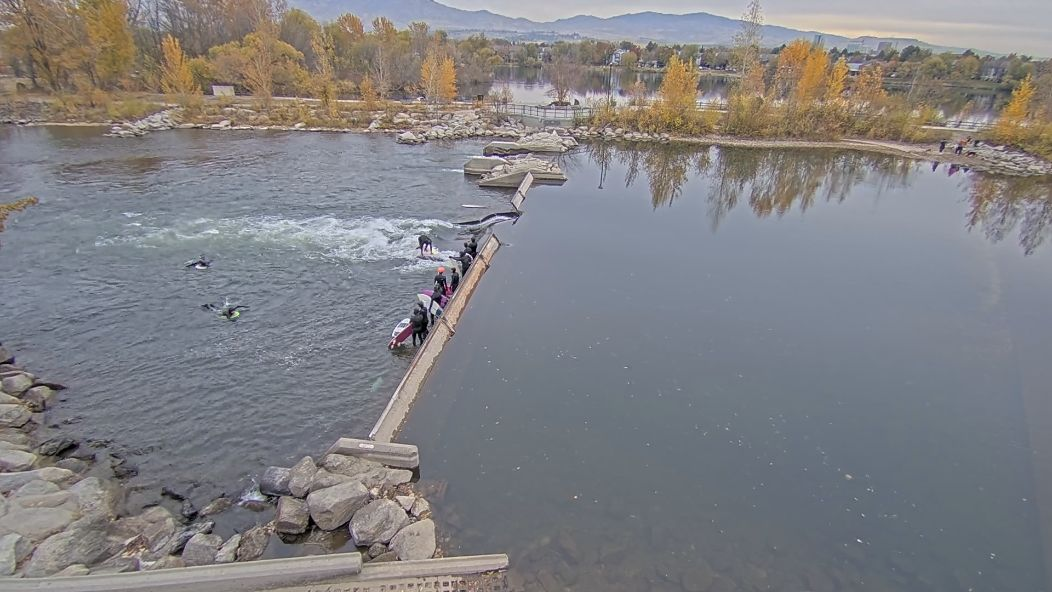
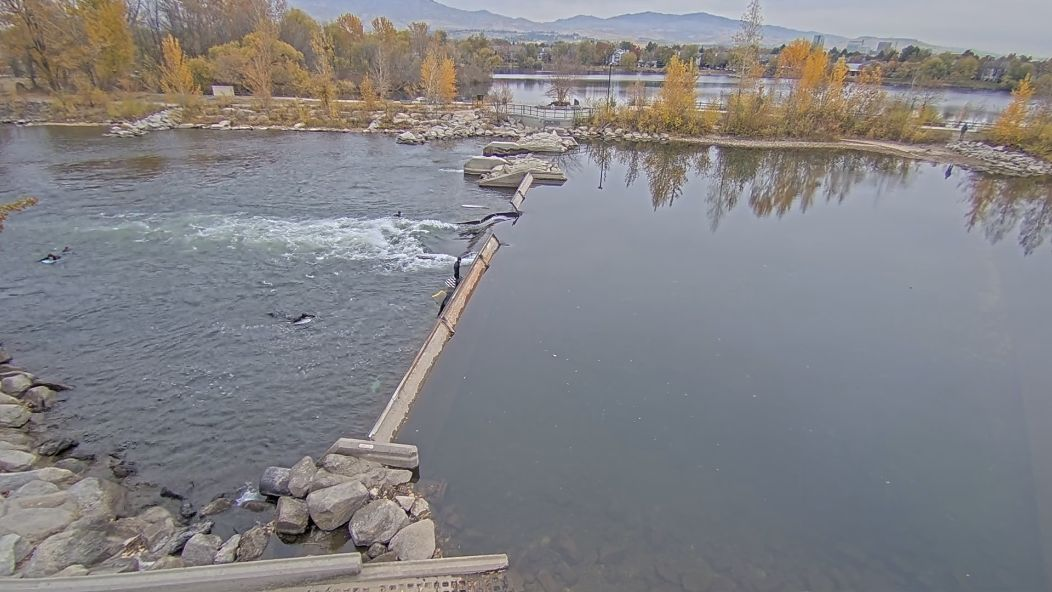
Run better

diff --git a/screenshotWave.py b/screenshotWave.py
@@ -15,9 +15,10 @@ import cv2
 from PIL.ExifTags import TAGS
 from PIL import Image
 import piexif
-from collections import defaultdict
+from collections import defaultdict, Counter
 from pyppeteer import launch
 from dotenv import load_dotenv
+
 
 load_dotenv()
 
@@ -43,7 +44,7 @@ async def screenshot_wave(save_path) -> str:
     await page.setViewport({"width": 1700, "height": 1000})
     await page.goto("https://www.boisewhitewaterpark.com/waveshaper-cam")
     time.sleep(3)
-    page.reload()
+    await page.reload()
     time.sleep(10)
     element = await page.querySelector("iframe")
     await element.screenshot({"path": save_path})
@@ -57,8 +58,6 @@ class ScreenshotStore:
             "s3",
             endpoint_url="https://s3.us-west-1.wasabisys.com",
         )
-        print(os.getenv("WASABI_ACCESS"))
-        print(os.getenv("WASABI_SECRET"))
         self.bucket = s3.Bucket("edginton-portfolio")
         self.imgcdn = "https://edgewize.imgix.net"
 
@@ -195,6 +194,37 @@ def label_yolo_image(image_url, detections):
     ScreenshotStore().upload_image(temp_path, upload_path="wave/gamma/"+slug)
     return img
 
+
+
+def quantize_colors(image, num_colors):
+    h, w = image.shape[:2]
+    pixels = image.reshape(-1, 3)
+    criteria = (cv2.TERM_CRITERIA_EPS + cv2.TERM_CRITERIA_MAX_ITER, 10, 1.0)
+    _, labels, centers = cv2.kmeans(pixels.astype(np.float32), num_colors, None, criteria, 10, cv2.KMEANS_RANDOM_CENTERS)  
+    centers = np.uint8(centers)
+    quantized_image = centers[labels.flatten()].reshape(h, w, 3)
+    return quantized_image
+
+def color_proportions(image):
+    pixels = image.reshape(-1, 3)
+    color_counts = Counter(tuple(pixel) for pixel in pixels)
+    total_pixels = image.shape[0] * image.shape[1]
+    proportions = {color: count / total_pixels for color, count in color_counts.items()}
+    return proportions
+
+def is_camera_loading(img_path):
+    img = cv2.imread(img_path)
+    # hsv_img = cv2.cvtColor(img, cv2.COLOR_BGR2HSV)
+    quantized_img = quantize_colors(img, num_colors=16)  # Or use hsv_img
+    proportions = color_proportions(quantized_img)  # Or use hsv_img
+    too_much_black = False
+    if (0,0,0) in proportions.keys():
+        amount = proportions[(0,0,0)]
+        if amount > 0.5:
+            too_much_black = True
+    return too_much_black
+
+
 async def batch():
     store = ScreenshotStore()
     files = store.list_files("images/wave")
@@ -211,15 +241,31 @@ async def batch():
                     detect_img = label_yolo_image(src_img_url, detections)
                     detect_img.show()
 
+async def take_good_shot(img_path, attempt, target_attempts=3):
+    if attempt <= target_attempts:
+        print(f"Screenshot attempt {attempt+1}")
+        await screenshot_wave(img_path)
+        is_loading = is_camera_loading(img_path)
+        if is_loading:
+            await take_good_shot(img_path, attempt+1)
+        else:
+            return True
+    else:
+        return False
+        
 async def main():
     temp_path = "temp.jpg"
-    await screenshot_wave(temp_path)
-    upload_path = ScreenshotStore().upload_image(temp_path)
-    img_src = IMG_CDN+upload_path
-    detections = yolo_detector(img_src)
-    print(f"Detected {len(detections)} objects in {img_src}")
-    detect_img = label_yolo_image(img_src, detections)
-    detect_img.show()
+    good_shot = await take_good_shot(temp_path, 0)
+    if good_shot:
+        upload_path = ScreenshotStore().upload_image(temp_path)
+        img_src = IMG_CDN+upload_path
+        detections = yolo_detector(img_src)
+        print(f"Detected {len(detections)} objects in {img_src}")
+        detect_img = label_yolo_image(img_src, detections)
+        detect_img.show()
+    else:
+        print("No good shot. Try again later.")
+    print("Waiting...")
     time.sleep(60 * 15)
     await main()
 
